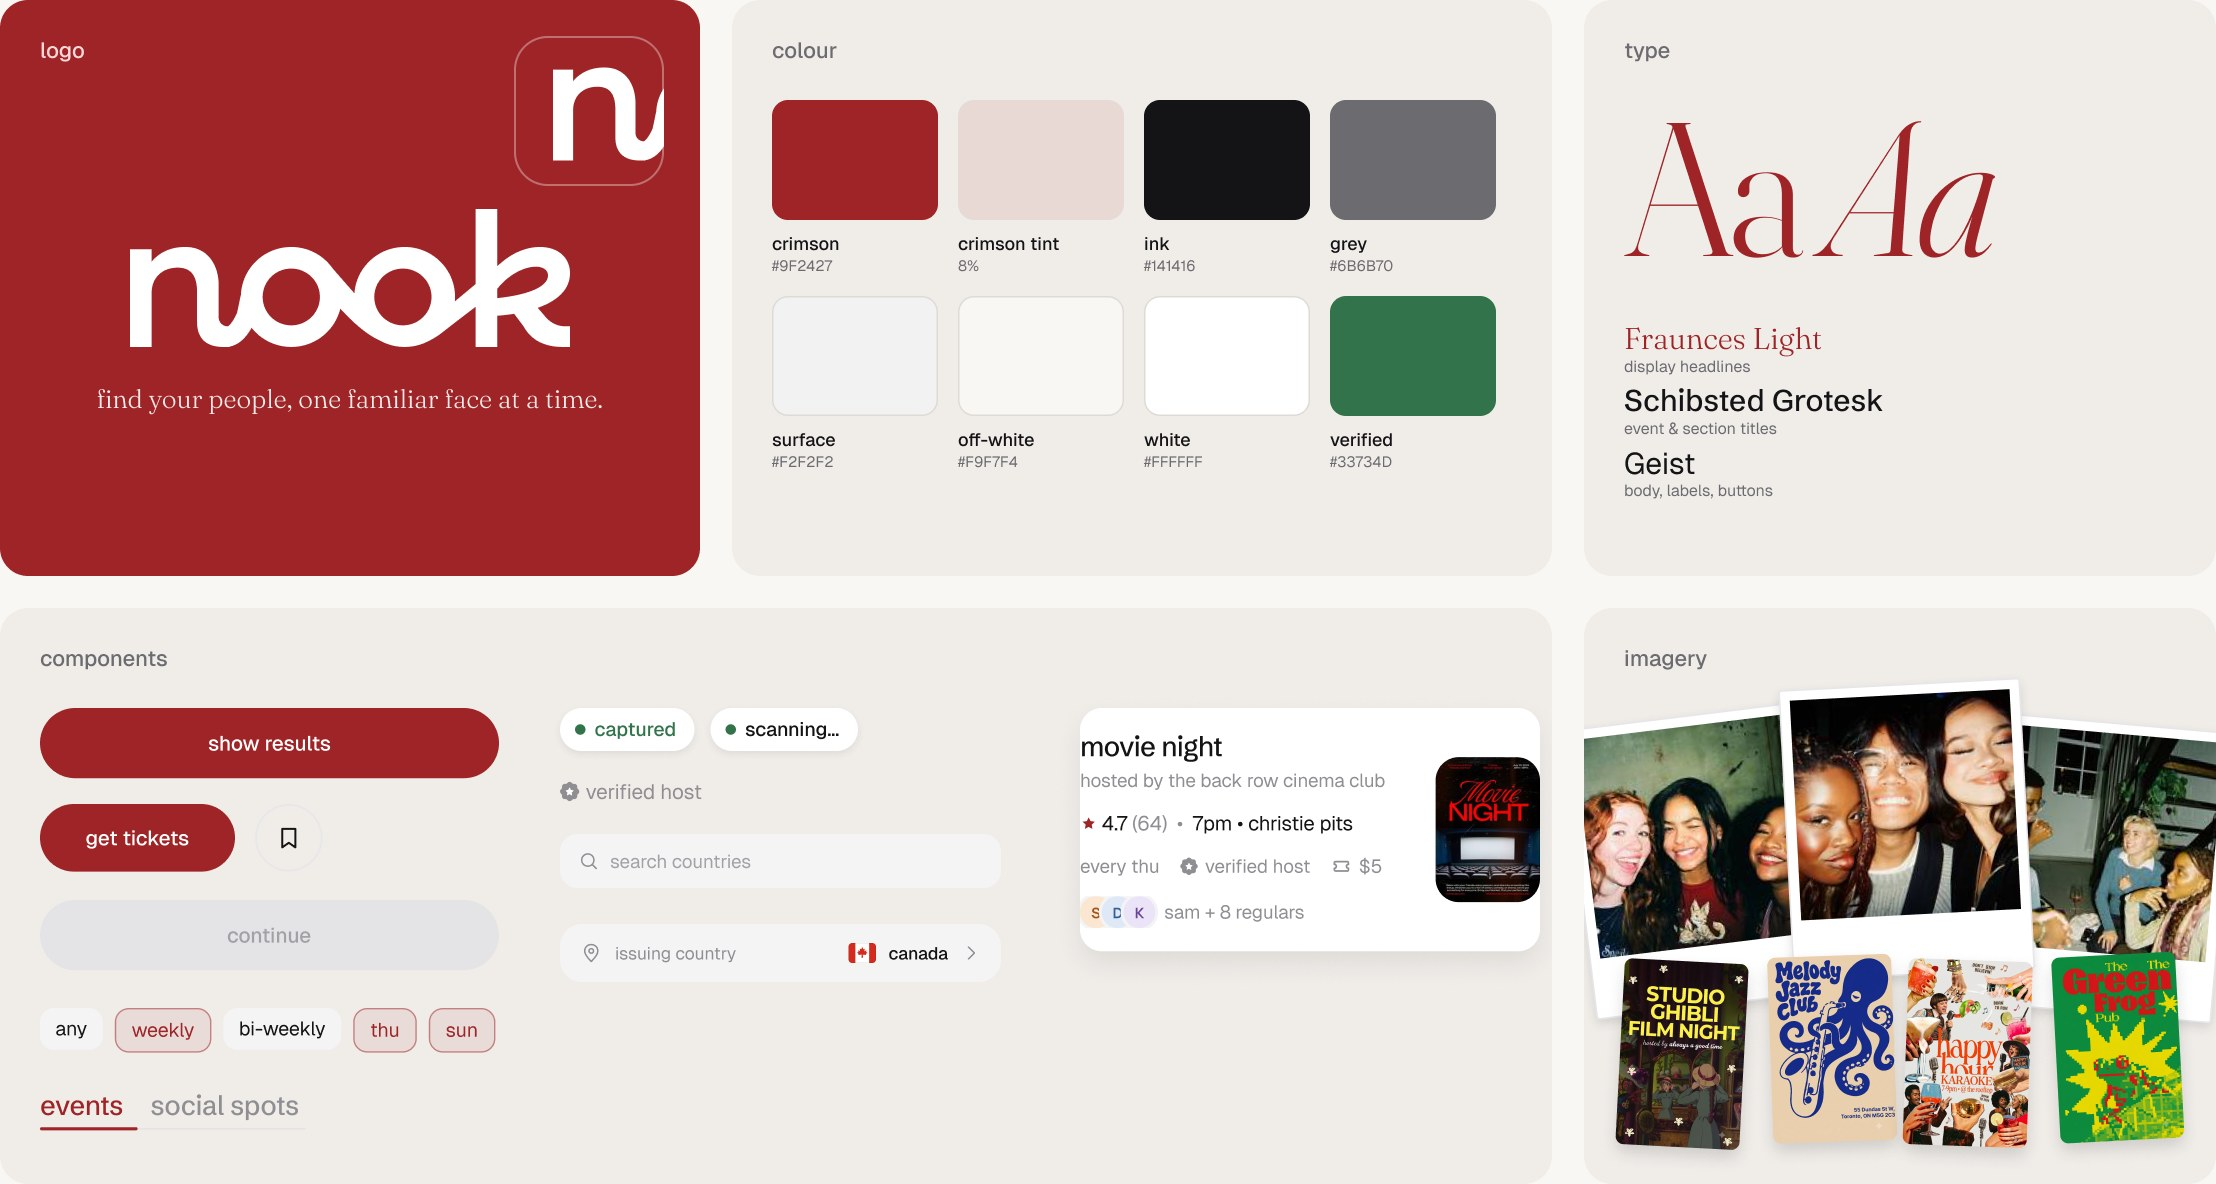
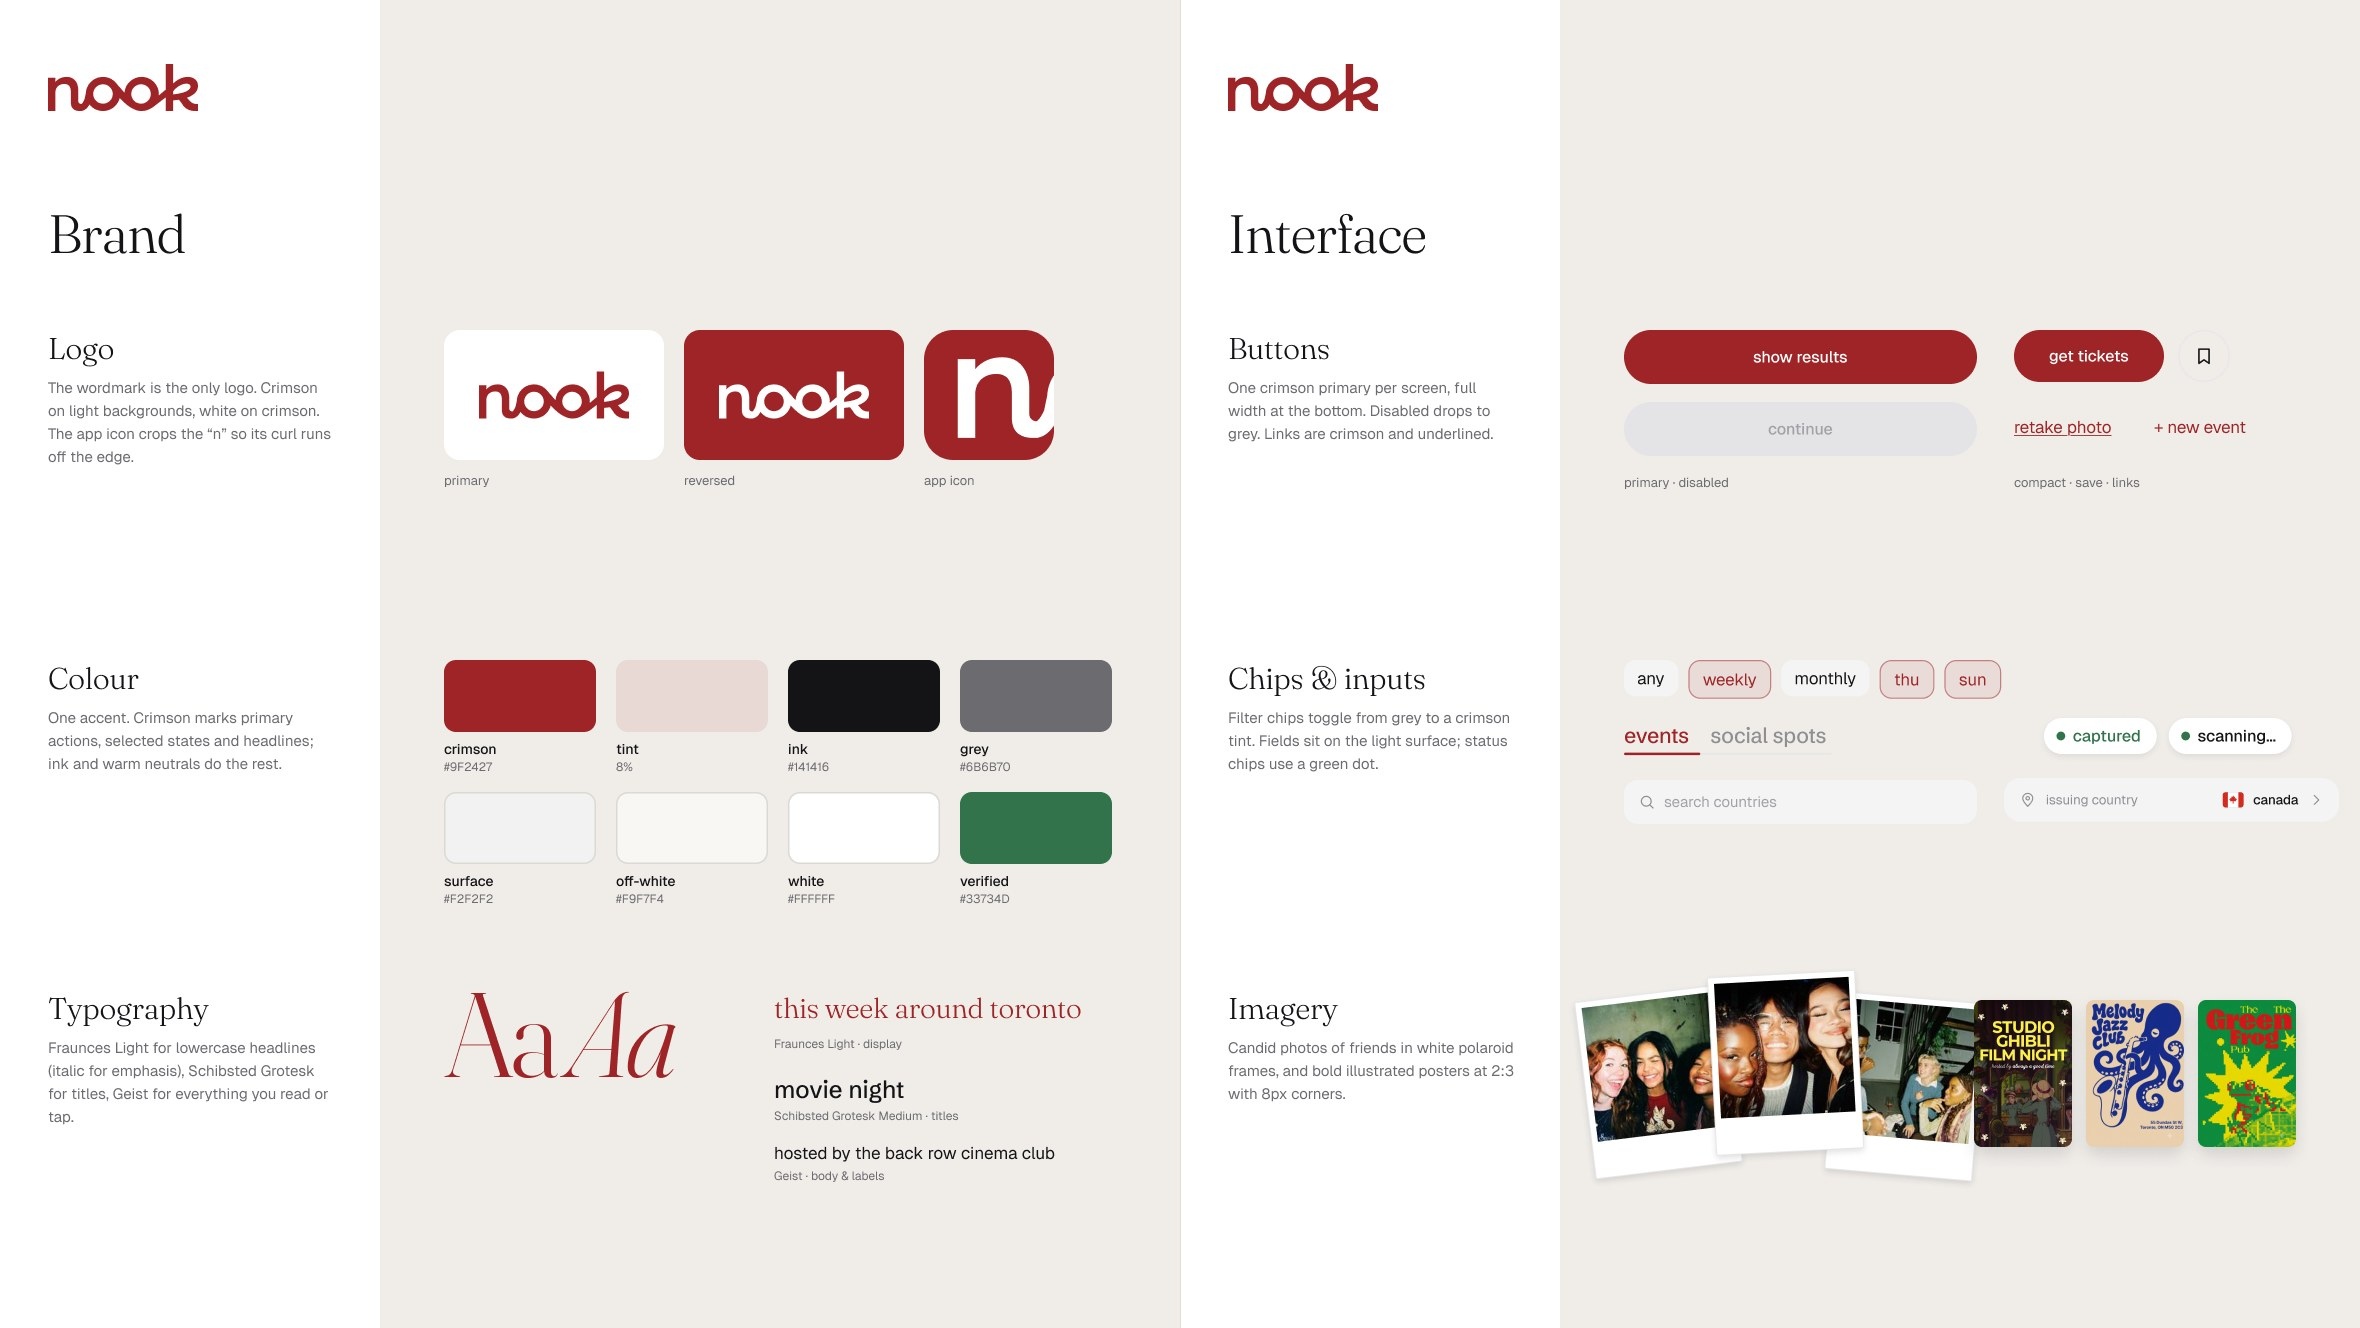
Nook: redo design system overview as ROM-style brand and interface sheets
Claude-Session: https://claude.ai/code/session_014gZA4i3aUXQzLQchaPimtd

diff --git a/nook.html b/nook.html
@@ -339,7 +339,7 @@
 
       <section id="visual" class="ruled">
         <p class="eyebrow">Visual Design</p>
-        <img class="wide-img" src="assets/nook-design-system.jpg?v=1" alt="Nook design system: crimson logo and app icon, colour palette, Fraunces, Schibsted Grotesk and Geist type, buttons, filter chips, status chips, inputs, an event card, polaroid photography and illustrated event posters" loading="lazy">
+        <img class="wide-img" src="assets/nook-design-system.jpg?v=2" alt="Nook design system sheets. Brand: logo, reversed logo and app icon, colour palette and typography. Interface: buttons, filter and status chips, inputs, and polaroid photography with illustrated event posters" loading="lazy">
       </section>
 
       <section id="final" class="ruled">
